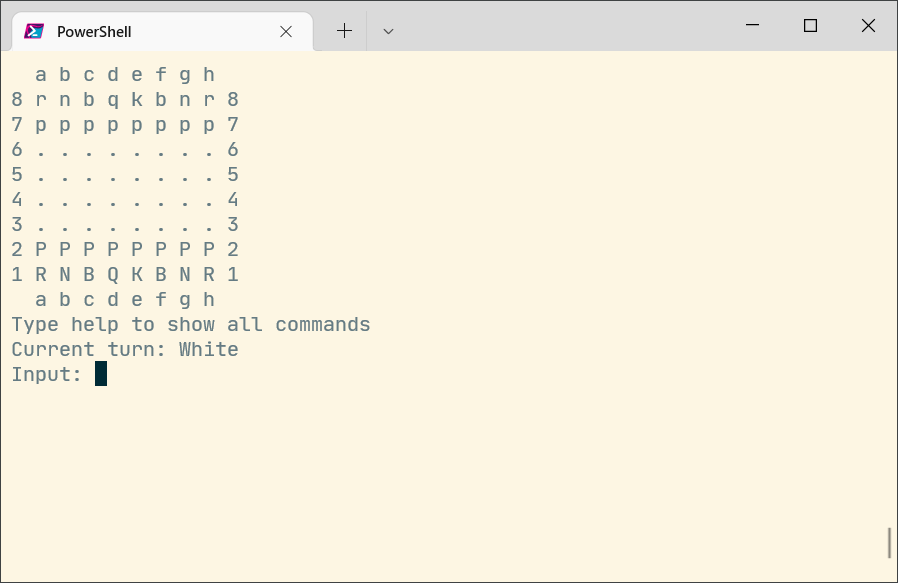
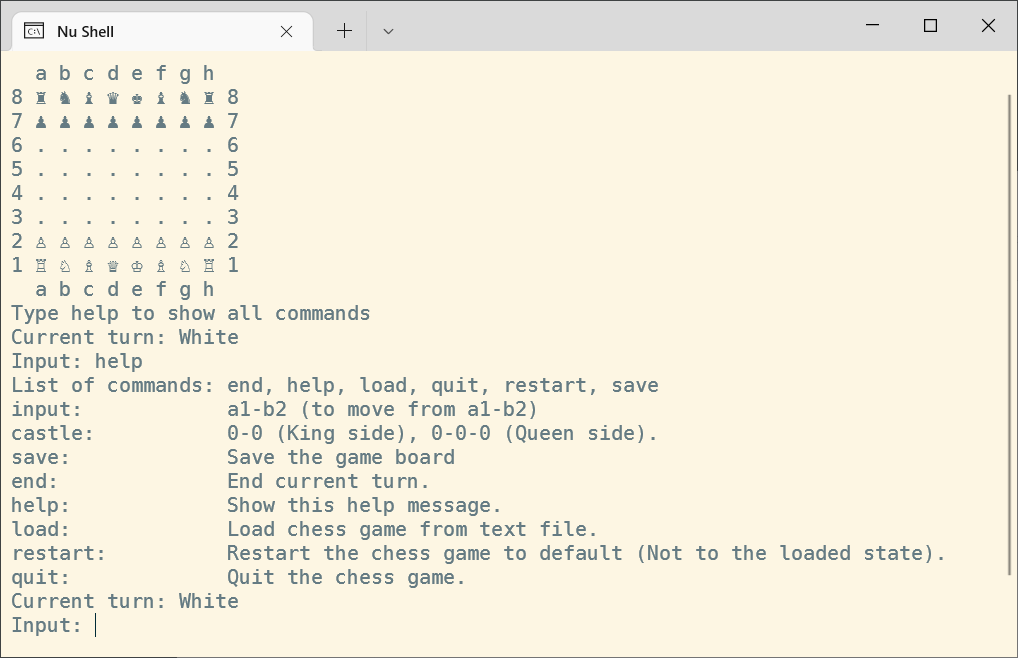
Revert back to Unicode for displaying chess pieces

diff --git a/Game.java b/Game.java
@@ -7,6 +7,8 @@ import java.util.Objects;
 import java.util.ArrayList;
 
 public class Game {
+    public static PrintWriter stdout;
+
     public static void main(String[] args) {
         Game game = new Game();
         if (args.length == 1) {
@@ -36,7 +38,7 @@ public class Game {
     public void play() {
         clearScreen();
         board.draw();
-
+        
         System.out.println("Type help to show all commands");
 
         Scanner sc = new Scanner(System.in);
@@ -206,18 +208,30 @@ public class Game {
 }
 
 enum PieceType {
-    BLACK_PAWN   ('p'),
-    WHITE_PAWN   ('P'),
-    BLACK_ROOK   ('r'),
-    WHITE_ROOK   ('R'),
-    BLACK_KNIGHT ('n'),
-    WHITE_KNIGHT ('N'),
-    BLACK_BISHOP ('b'),
-    WHITE_BISHOP ('B'),
-    BLACK_QUEEN  ('q'),
-    WHITE_QUEEN  ('Q'),
-    BLACK_KING   ('k'),
-    WHITE_KING   ('K');
+    // BLACK_PAWN   ('p'),
+    // WHITE_PAWN   ('P'),
+    // BLACK_ROOK   ('r'),
+    // WHITE_ROOK   ('R'),
+    // BLACK_KNIGHT ('n'),
+    // WHITE_KNIGHT ('N'),
+    // BLACK_BISHOP ('b'),
+    // WHITE_BISHOP ('B'),
+    // BLACK_QUEEN  ('q'),
+    // WHITE_QUEEN  ('Q'),
+    // BLACK_KING   ('k'),
+    // WHITE_KING   ('K');
+    BLACK_PAWN   ('♟'),
+    WHITE_PAWN   ('♙'),
+    BLACK_ROOK   ('♜'),
+    WHITE_ROOK   ('♖'),
+    BLACK_KNIGHT ('♞'),
+    WHITE_KNIGHT ('♘'),
+    BLACK_BISHOP ('♝'),
+    WHITE_BISHOP ('♗'),
+    BLACK_QUEEN  ('♛'),
+    WHITE_QUEEN  ('♕'),
+    BLACK_KING   ('♚'),
+    WHITE_KING   ('♔');
 
     private final char icon;
     PieceType(char icon) {

diff --git a/README.md b/README.md
@@ -1,6 +1,6 @@
 ## Chess
 
-This is a simple chess game that can be played on the command line. (Only using ASCII characters)
+This is a simple chess game that can be played on the command line.
 
 ![alt text](Screenshots/Screenshots.PNG "Screenshots")
 
@@ -8,14 +8,14 @@ This is a simple chess game that can be played on the command line. (Only using 
 
 ```
   a b c d e f g h
-8 r n b q k b n r 8
-7 p p p p p p p p 7      Black side
+8 ♜ ♞ ♝ ♛ ♚ ♝ ♞ ♜ 8
+7 ♟ ♟ ♟ ♟ ♟ ♟ ♟ ♟ 7
 6 . . . . . . . . 6
 5 . . . . . . . . 5
 4 . . . . . . . . 4
 3 . . . . . . . . 3
-2 P P P P P P P P 2      White side
-1 R N B Q K B N R 1
+2 ♙ ♙ ♙ ♙ ♙ ♙ ♙ ♙ 2
+1 ♖ ♘ ♗ ♕ ♔ ♗ ♘ ♖ 1
   a b c d e f g h
 ```
 
@@ -27,6 +27,15 @@ This is a simple chess game that can be played on the command line. (Only using 
 4. Pawn promotion
 5. Castling
 6. En passant
+
+### Help: Unicode symbols not displaying properly in my Windows Terminal
+
+Firstly, I have only tested this implementation on Windows Terminal with the following settings,
+1. Make sure chcp 65001 is run before running the game.
+2. Make sure the font supports the unicode characters, I am using Dejavu sans mono, to see if the font supports the symbols on Windows, go to, Start > Character Map, and
+select the font used in the Windows Terminal (Note: I am using Windows Terminal with powershell), search for chess under advanced. See below screenshot
+
+![alt text](Screenshots/CharacterMap.PNG "Screenshots")
 
 ### Disclaimer
 
